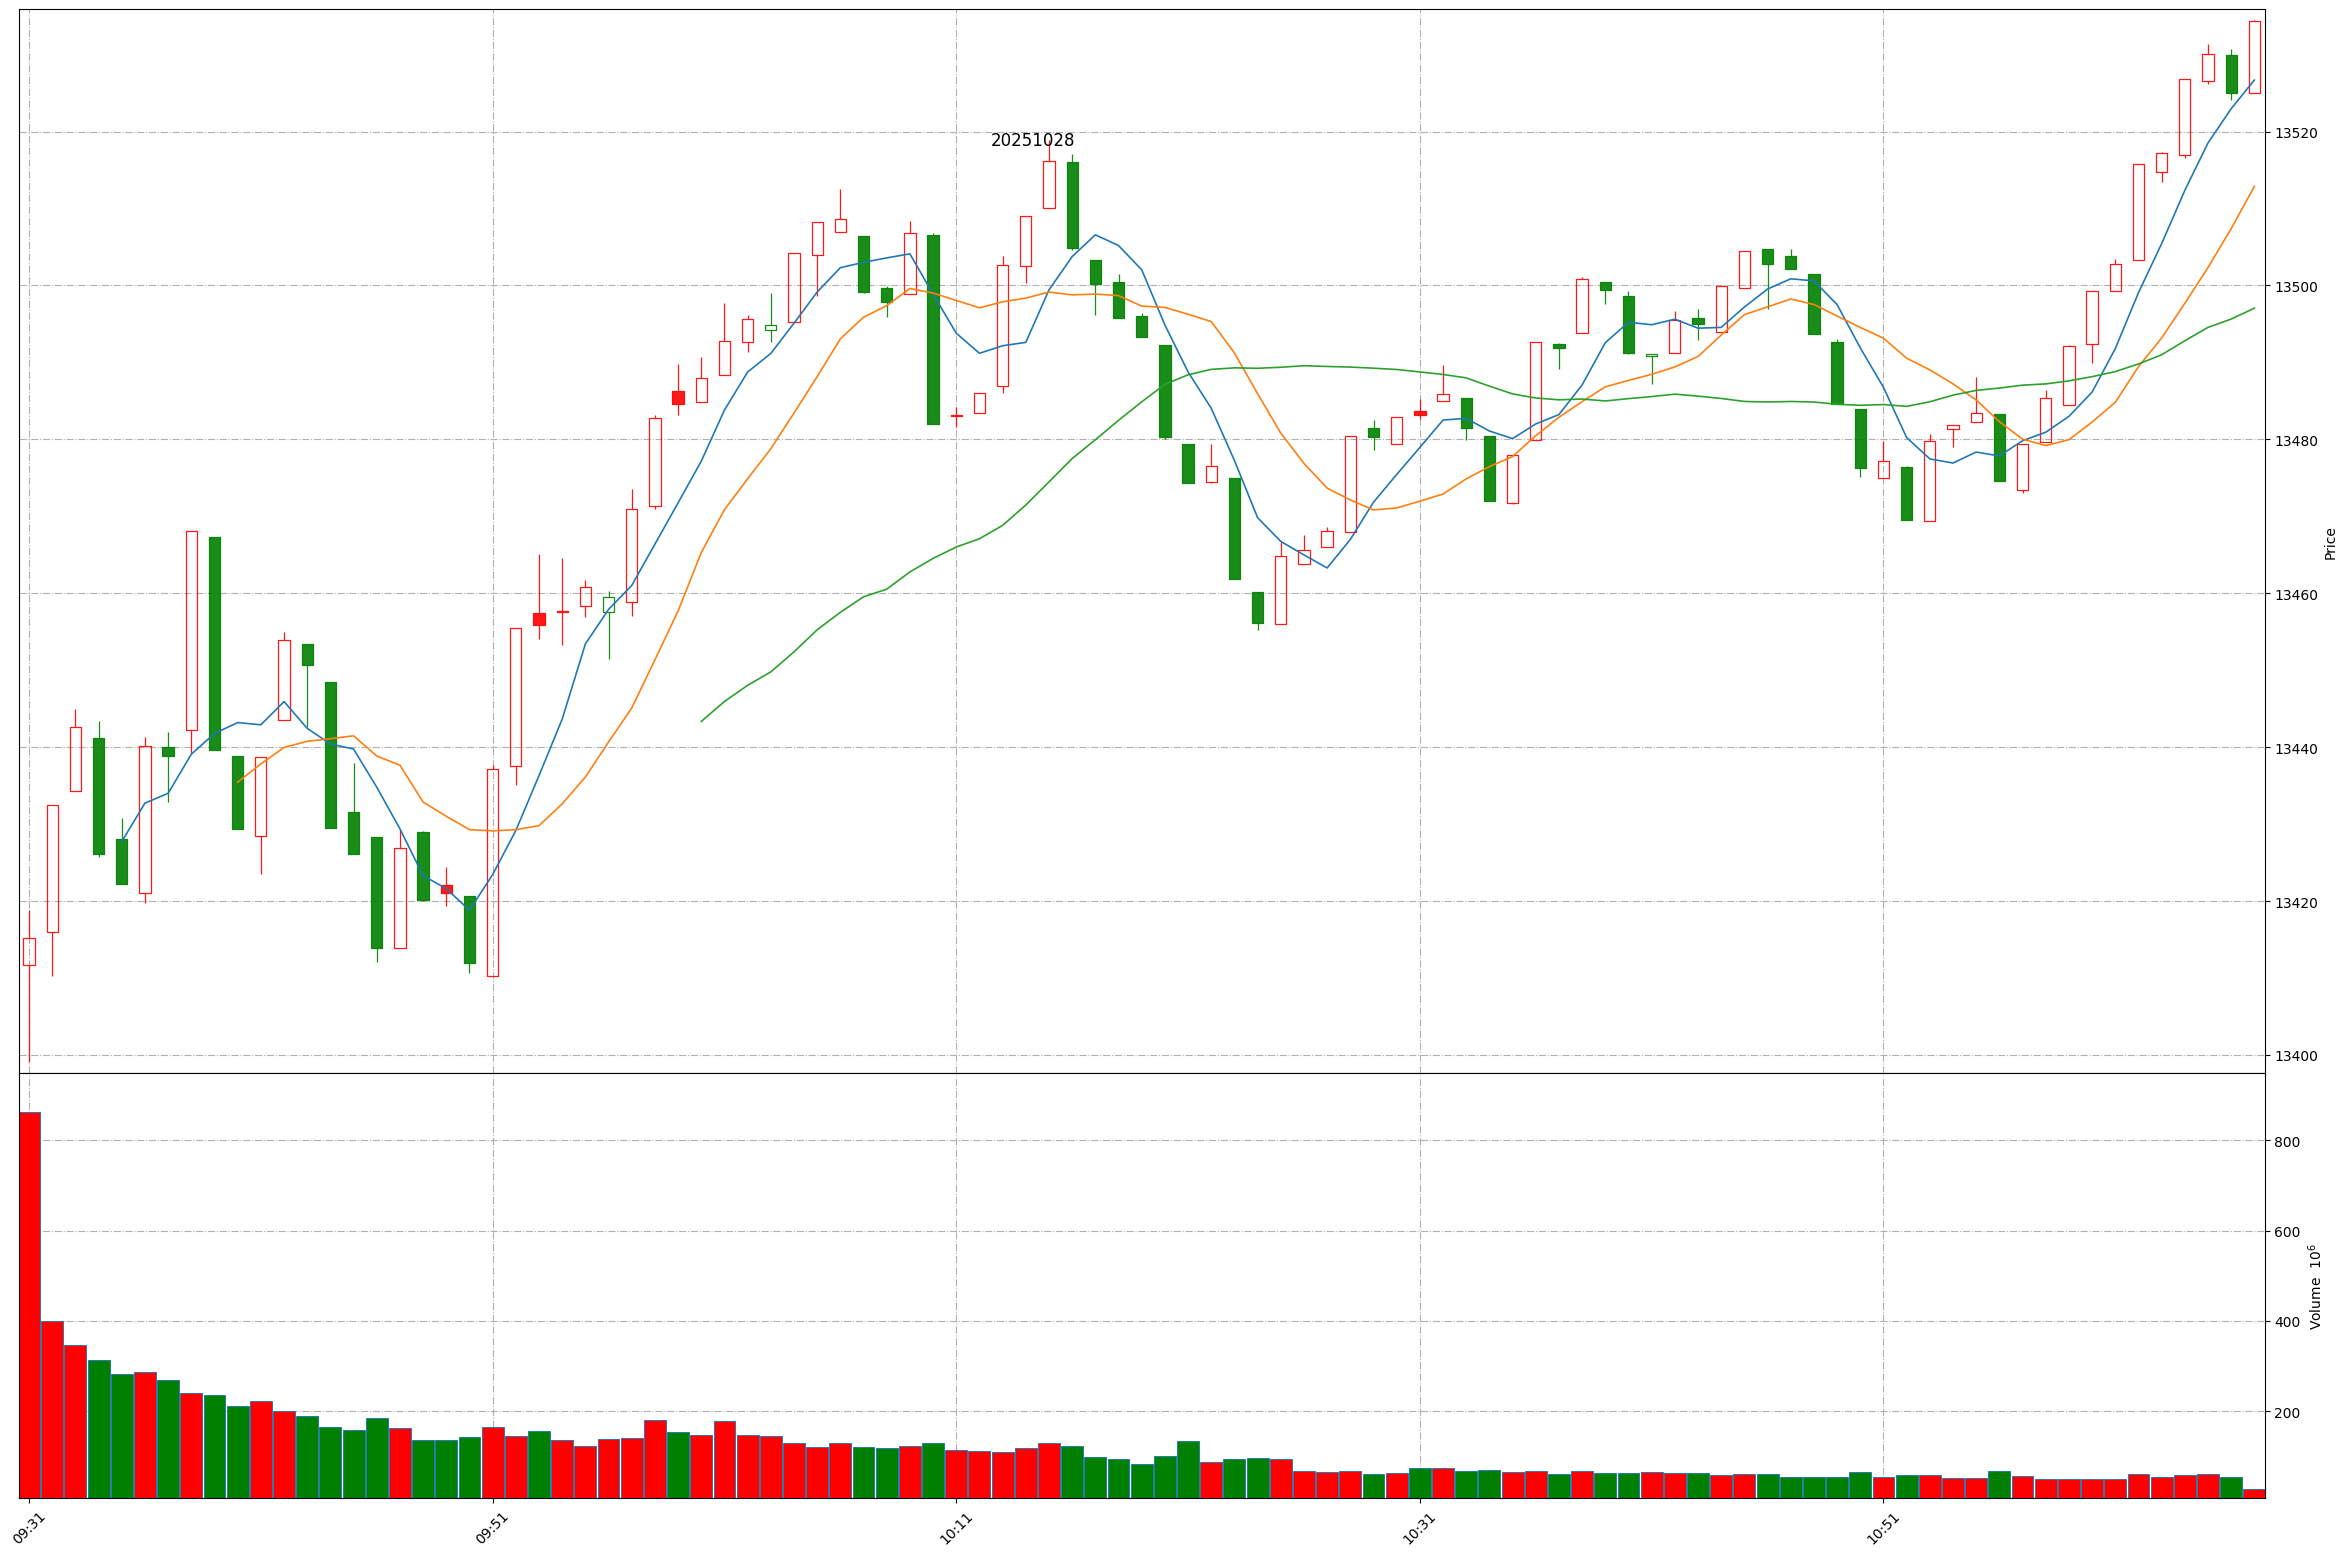
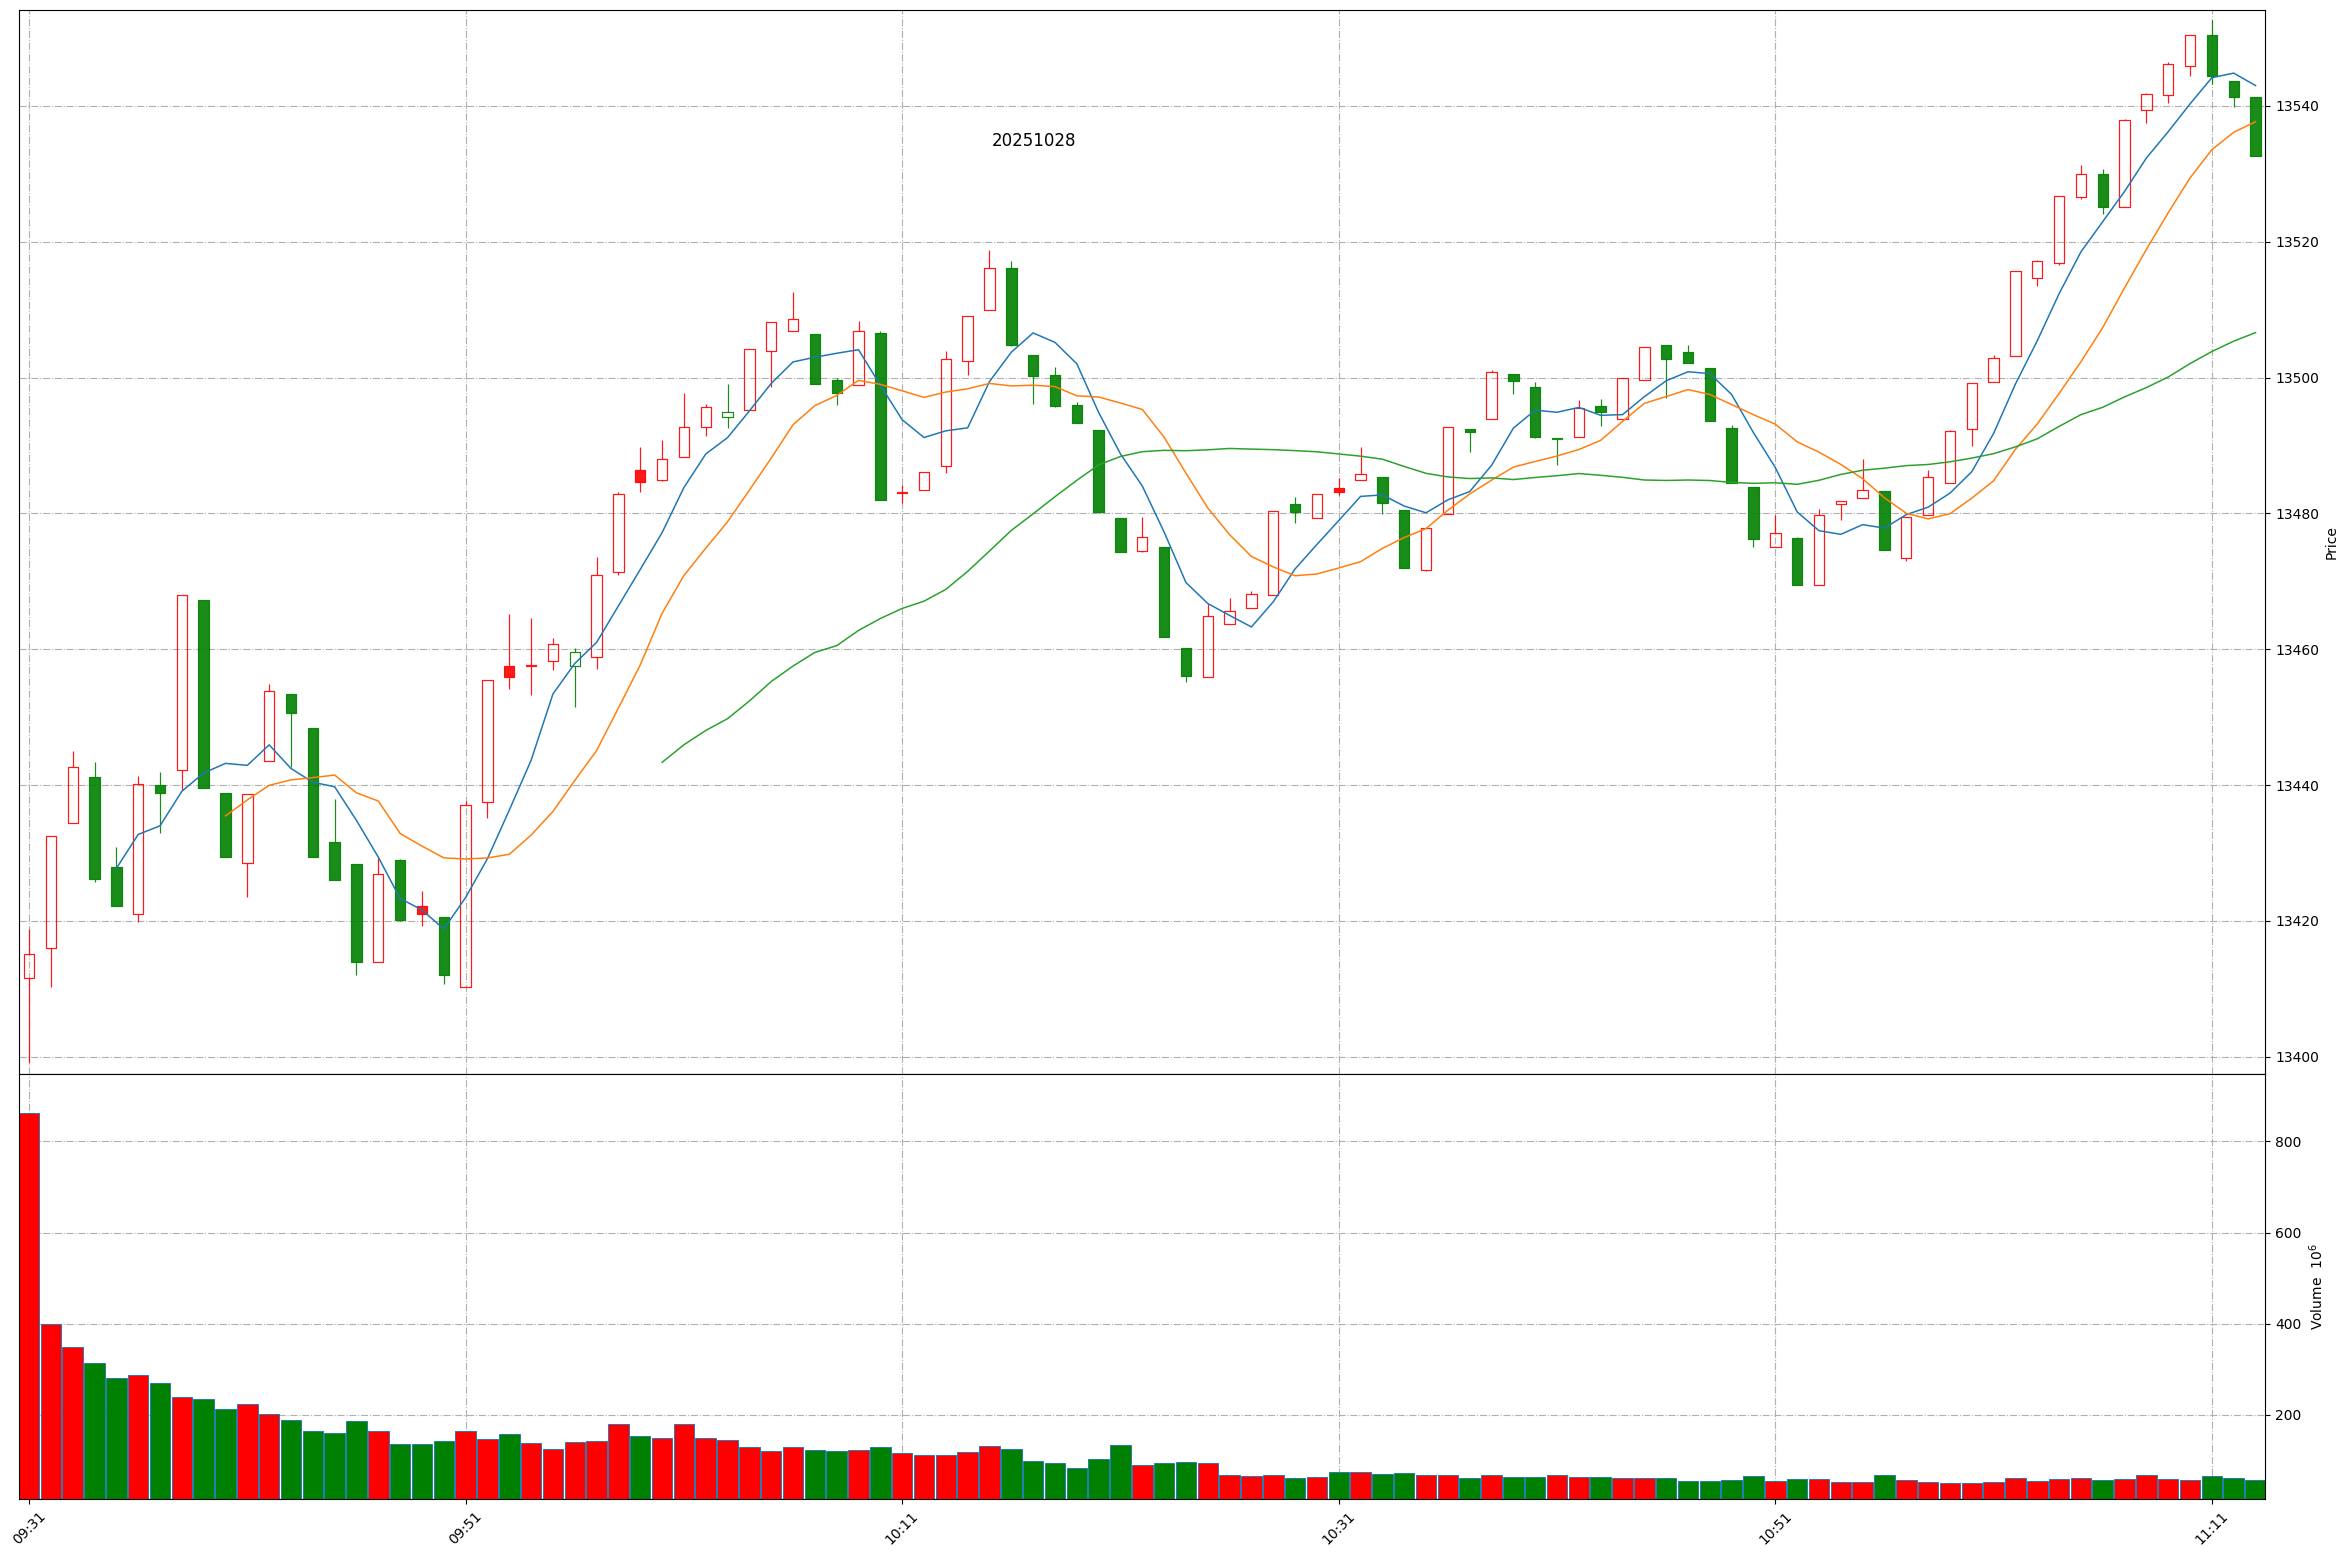
Github action update at 2025-10-28 11:13:11.

diff --git a/README.md b/README.md
@@ -1,11 +1,11 @@
 
 # Daily-A-share-market-quotes 每日 A 股指数（5min 更新）- 20251028
 
-### 上证指数 20251028 11:6
+### 上证指数 20251028 11:13
 ![](./fig/2025/10/20251028-sh000001.png)
 
-### 深证成指 20251028 11:6
+### 深证成指 20251028 11:13
 ![](./fig/2025/10/20251028-sz399001.png)
 
-### 北证50 20251028 11:6
+### 北证50 20251028 11:13
 ![](./fig/2025/10/20251028-bj899050.png)
